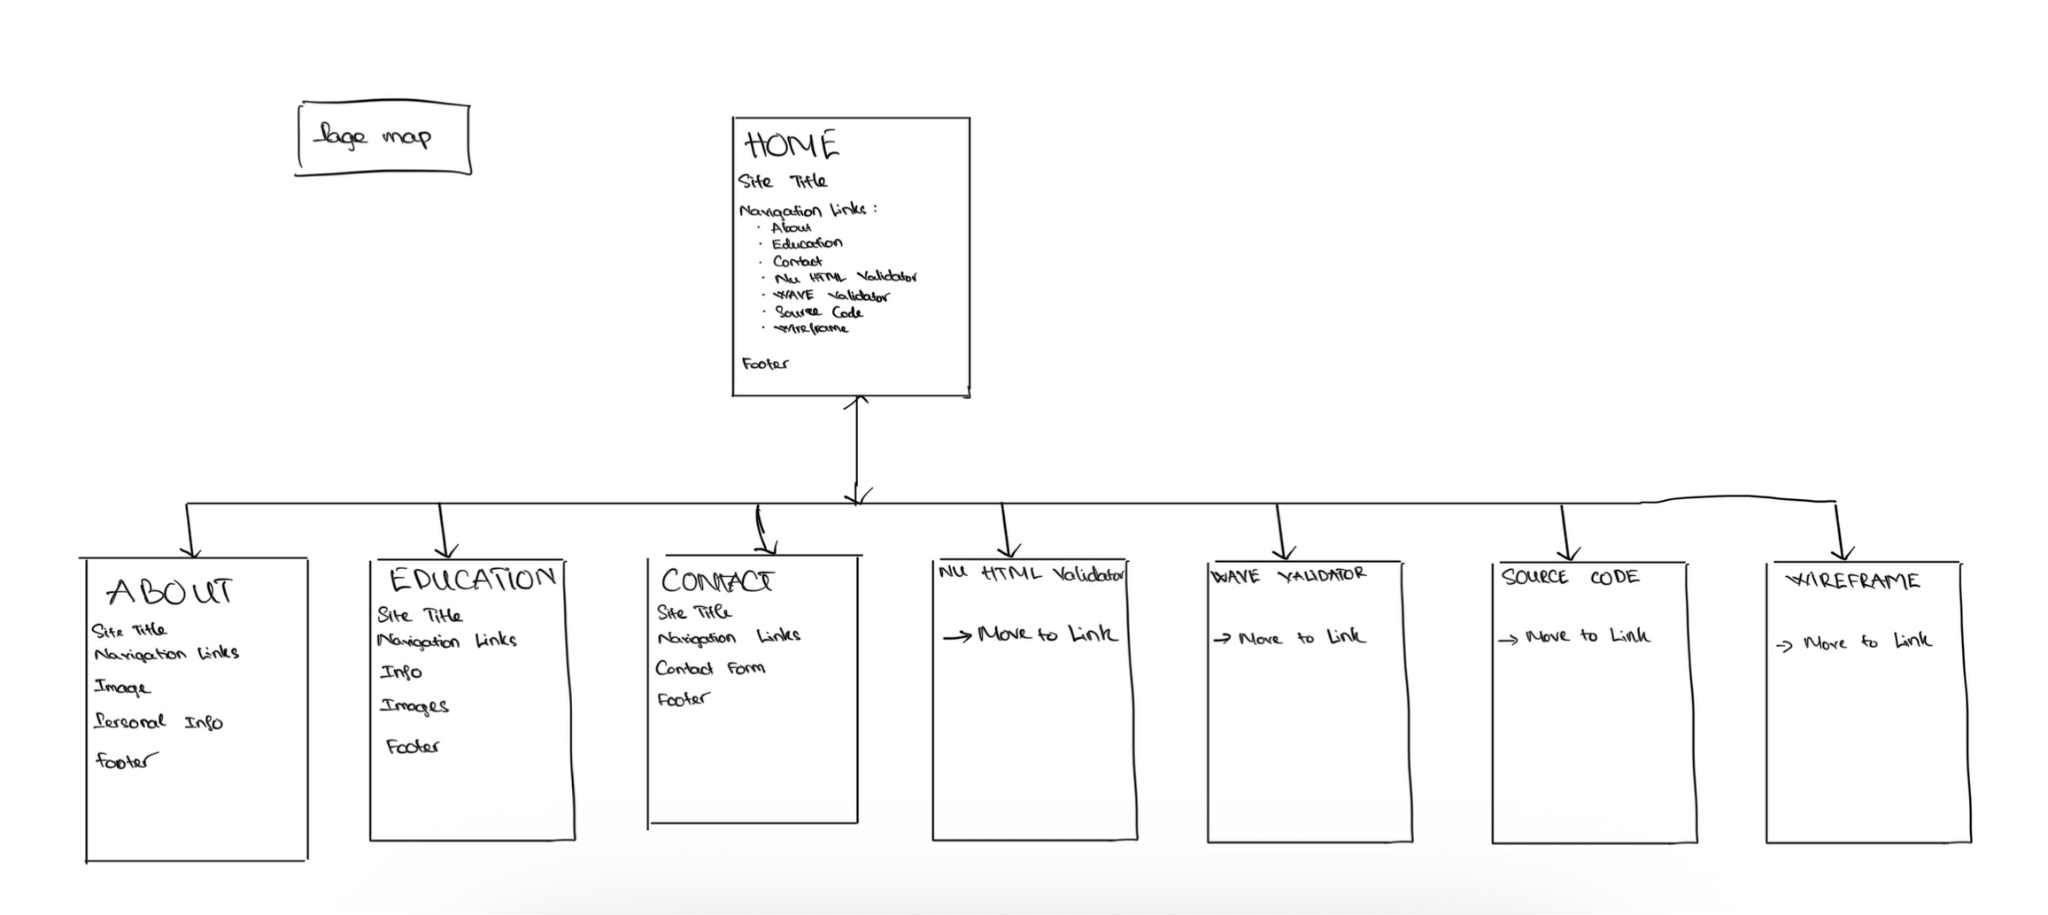
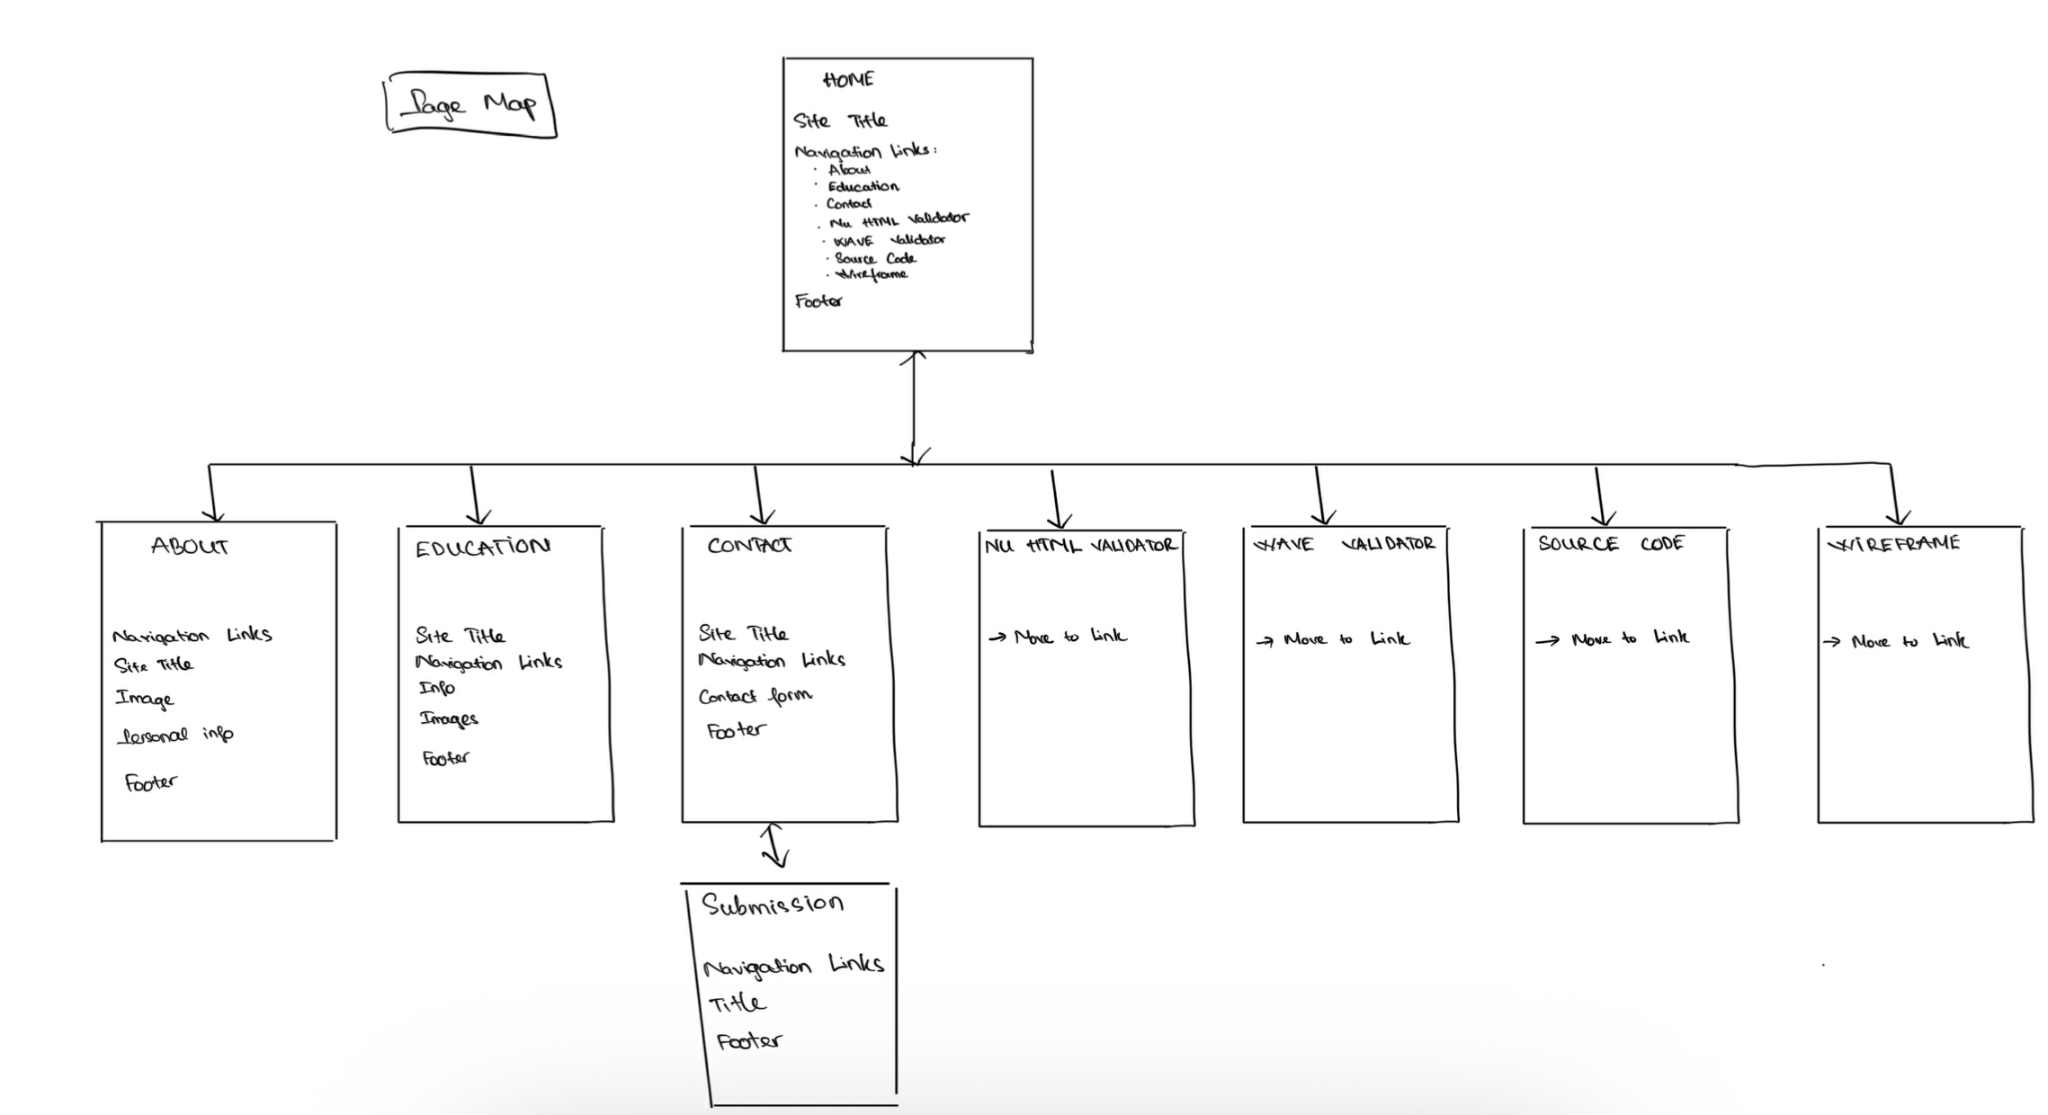
Add files via upload

diff --git a/pages/submission.html b/pages/submission.html
@@ -12,17 +12,21 @@
 	  <link href="../styles/style.css" rel="stylesheet">
 </head>
 <body>
-  <nav class="navbar navbar-expand-lg fixed-top ">
+  <nav class="navbar navbar-dark bg-dark navbar-expand-lg fixed-top my-custom-navbar">
     <div class="container-fluid">
-      <a class="navbar-brand" href="../index.html">THUAN'S BLOG</a>
-      <button class="navbar-toggler" type="button" data-bs-toggle="collapse" data-bs-target="#mynavbar">
+      <a class="navbar-brand text-dark" href="../index.html">THUAN'S BLOG</a>
+      <a class="navbar-toggler" data-bs-toggle="collapse" data-bs-target="#mynavbar">
         <span class="navbar-toggler-icon"></span>
-      </button>
-      <div class="collapse navbar-collapse"  id="mynavbar">
+      </a>
+      <div class="collapse navbar-collapse" id="mynavbar">
         <div class="navbar-nav">
-          <a class="nav-link px-lg-4" href="blog.html">ABOUT</a>
-          <a class="nav-link px-lg-4" href="education.html">EDUCATION</a>
-          <a class="nav-link px-lg-4" href="contact.html">CONTACT</a>
+          <a class="nav-link px-lg-4 text-dark" href="blog.html">ABOUT</a>
+          <a class="nav-link px-lg-4 text-dark" href="education.html">EDUCATION</a>
+          <a class="nav-link px-lg-4 text-dark" href="contact.html">CONTACT</a>
+					<a class="nav-link px-lg-4 text-dark" href="https://validator.w3.org/nu/?doc=https%3A%2F%2Fkise1205.github.io%2FProject-Alpha%2Fpages%2Fcontact.html" target="_blank">Nu HTML Validator</a>
+					<a class="nav-link px-lg-4 text-dark" href="https://wave.webaim.org/report#/https://kise1205.github.io/Project-Alpha/" target="_blank">WAVE Validator</a>
+					<a class="nav-link px-lg-4 text-dark" href="https://github.com/Kise1205/Project-Alpha" target="_blank">Source Code</a>
+          <a class="nav-link px-lg-4 text-dark" href="https://github.com/Kise1205/Project-Alpha/issues/3#issue-3423896524" target="_blank">Wireframe</a>
         </div>
       </div>
     </div>

diff --git a/styles/style.css b/styles/style.css
@@ -79,7 +79,6 @@ h3{
     margin: 0px;
 }    
 
-
 #doge-1 {
     display: block;
     width: 1000px;

diff --git a/README.md b/README.md
@@ -11,13 +11,16 @@ The site is built with **HTML5**, **CSS3**, **Bootstrap 5**, and some **JavaScri
 ## 🗺 Page Map
 - **index.html** → Homepage
 - **/pages/blog.html** → About page  
-- **/pages/project.html** → Education page  
-- **/pages/resources.html** → Contact page  
+- **/pages/education.html** → Education page  
+- **/pages/contact.html** → Contact page 
+- **/pages/submission.html** → Submission page 
 - **/styles/style.css** → Custom styles  
-- **/scripts/scripts.js** → JavaScript functions (e.g., button alert)  
-- **/images/** → Backgrounds, wireframes, and other images  
+- **/scripts/scripts.js** → JavaScript functions (e.g., images change)  
+- **assets/images/** → Backgrounds, wireframes, and other images  
 
 ![Pagemap](https://github.com/Kise1205/Project-Alpha/issues/5#issue-3423906125)
+
+*(Page map is saved in `assets/images/page-map.jpg`)*  
 
 ---
 
@@ -26,12 +29,12 @@ A wireframe was created to outline the structure of the homepage before developm
 
 ![Wireframe](https://github.com/Kise1205/Project-Alpha/issues/3#issue-3423896524)  
 
-*(Wireframe is saved in `/images/wireframe.png`)*  
+*(Wireframe is saved in `assets/images/project-wireframe.jpg`)*  
 
 ---
 
 ## 🌍 How to View
-- **Live Site:** [👉 Click here](https://your-live-link.com)  
+- **Live Site:** [👉 Click here](https://kise1205.github.io/Project-Alpha/)  
 - Or download the repository and open `index.html` directly in a browser.  
 
 ---
@@ -77,6 +80,7 @@ document.getElementById("imageContainer").onclick = function() {
     }
 };
 ```
+
 ---
 
 ## ➡ Explanation:
@@ -99,7 +103,7 @@ Bootstrap 5
 Normalize.css
  – CSS reset
 
-javascript
+jQuery
  – simple scripting
 
 Images: Wireframe and Page map made with hand-drawn
